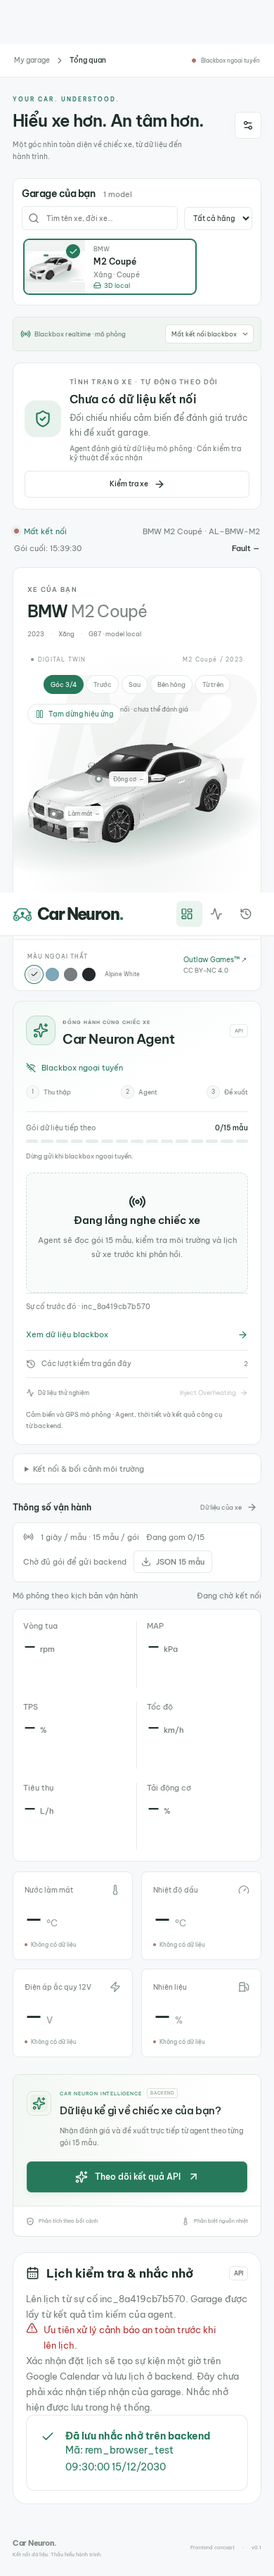
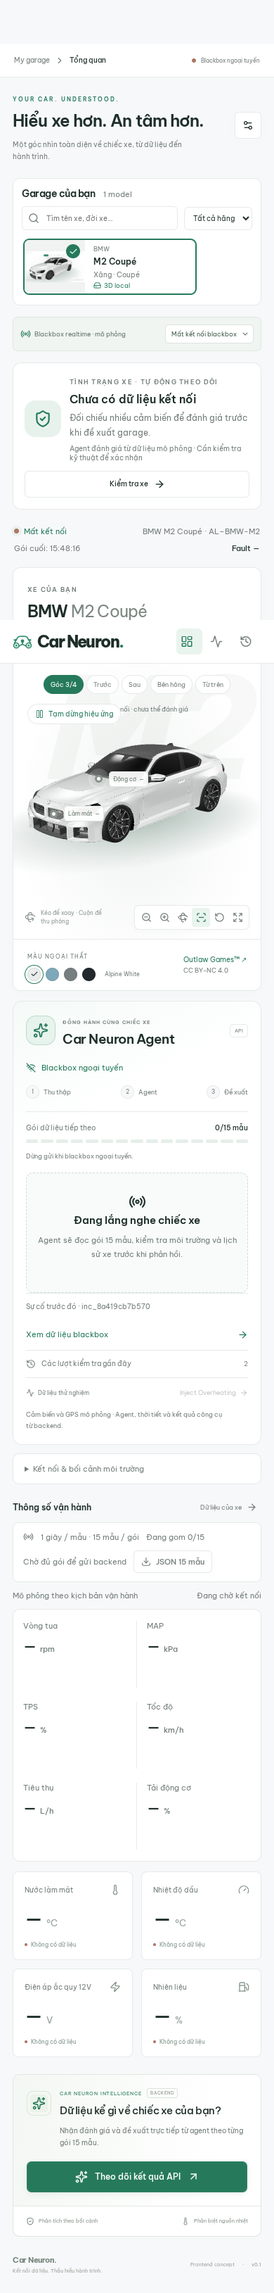
refactor(frontend): focus MVP on vehicle health agent

diff --git a/frontend/src/app/globals.css b/frontend/src/app/globals.css
@@ -3047,7 +3047,6 @@ td:last-child {
 .health-overview.critical { background: linear-gradient(115deg, #fff0ed, var(--surface) 85%); border-color: #e5a099; border-left: 4px solid #ce3c32; }
 .health-overview.critical h2 { color: #a62924; }
 .health-actions { display: flex; flex-direction: column; gap: 8px; }
-.health-actions .booking-shortcut { border-color: var(--accent); color: var(--accent); }
 .metric-card.danger { background: #fff0ed; border-color: #e99b91; box-shadow: inset 0 3px #d33d31; }
 .metric-card.danger .metric-label, .metric-card.danger .metric-value, .metric-card.danger .metric-value small, .metric-card.danger .metric-sub, .metric-card.danger .sparkline { color: #b32f26; }
 .metric-card.danger .tiny-dot { background: #c8372b; }
@@ -3188,23 +3187,3 @@ td:last-child {
 .backend-agent .agent-recommendation p { margin: 0; }
 .backend-agent .agent-response details { font-size: 12px; line-height: 1.6; margin-top: 14px; }
 .backend-open-note { display: block; line-height: 1.6; padding: 10px 0; color: #a13434; }
-.backend-service { background: var(--surface); border: 1px solid var(--border); border-radius: 20px; padding: 26px; margin: 22px 0; scroll-margin-top: 100px; }
-.backend-service h3 { display: flex; align-items: center; gap: 10px; font-size: 17px; margin: 0 0 14px; }
-.backend-service > p { color: var(--muted); font-size: 13px; line-height: 1.7; }
-.backend-service .backend-urgent { color: #b33333; display: flex; gap: 8px; }
-.backend-action-tabs, .backend-actions { display: flex; flex-wrap: wrap; gap: 10px; margin: 18px 0; }
-.backend-action-tabs button { padding: 10px 16px; border-radius: 20px; border: 1px solid var(--border); }
-.backend-action-tabs button[aria-pressed="true"] { background: var(--accent); color: white; }
-.backend-garages { display: grid; grid-template-columns: repeat(auto-fit,minmax(min(100%,240px),1fr)); gap: 10px; margin: 15px 0; }
-.backend-garages label { display: flex; gap: 12px; padding: 16px; border: 1px solid var(--border); border-radius: 12px; cursor: pointer; }
-.backend-garages small { display: block; margin-top: 5px; line-height: 1.6; color: var(--muted); }
-.backend-garages label:has(input:checked) { border-color: var(--accent); background: var(--accent-soft); }
-.backend-date { display: grid; gap: 8px; width: min(100%,320px); font-size: 13px; margin: 18px 0; }
-.backend-date input { padding: 12px; border: 1px solid var(--border); border-radius: 10px; background: var(--surface); color: var(--text); min-width: 0; }
-.backend-review { border: 1px solid var(--border); border-radius: 14px; padding: 20px; margin-top: 18px; }
-.backend-review dl > div { display: flex; justify-content: space-between; gap: 20px; padding: 10px 0; border-bottom: 1px solid var(--border); font-size: 13px; }
-.backend-review dd { margin: 0; overflow-wrap: anywhere; text-align: right; }
-.backend-consent { display: flex; align-items: flex-start; gap: 10px; font-size: 13px; line-height: 1.7; margin: 18px 0; }
-.backend-consent input { margin-top: 4px; accent-color: var(--accent); }
-.backend-receipt { display: flex; gap: 15px; padding: 20px; color: var(--accent); border: 1px solid var(--border); border-radius: 12px; }
-@media(max-width:600px) { .backend-service { padding: 18px; } .backend-actions button { width: 100%; justify-content: center; } }

diff --git a/frontend/src/components/garage.tsx b/frontend/src/components/garage.tsx
@@ -6,9 +6,7 @@ import Image from "next/image";
 import { useVehicleSession } from "@/hooks/use-vehicle-session";
 import {thermalLevel} from "@/lib/thermal-status";
 import BlackboxTransferStatus from "./blackbox-transfer";
-import ServicePlanner from "./service-planner";
 import BackendAgentPanel from "./backend-agent-panel";
-import BackendServicePlanner from "./backend-service-planner";
 import VehicleLibrary from "./vehicle-library";
 import { VehicleMetrics, TelemetryReadings, OperatingMetrics } from "./vehicle-telemetry";
 import { vehicles, powertrainLabels, type Vehicle } from "@/lib/vehicles";
@@ -323,7 +321,6 @@ export default function Garage() {
                 </div>
                 <div className="health-actions">
                   <button className="outline-button" disabled={busy} onClick={runAnalysis}>Kiểm tra xe <ArrowRight size={16} /></button>
-                  {result && result.severity !== "good" && <button className="outline-button booking-shortcut" onClick={() => {const target=document.getElementById("service-planner");target?.scrollIntoView({behavior:window.matchMedia("(prefers-reduced-motion: reduce)").matches ? "instant" : "smooth",block:"start"});target?.focus({preventScroll:true});}}>Đặt lịch kiểm tra <ArrowRight size={16} /></button>}
                 </div>
               </section>
               <div className="live-vehicle-strip" aria-label="Trạng thái luồng dữ liệu">
@@ -550,7 +547,6 @@ export default function Garage() {
                   </div>
                 )}
               </section>
-              {backend ? <BackendServicePlanner incident={backend.incident} /> : <ServicePlanner analysis={busy ? null : result} vehicleId={vehicle.id} urgent={!!incident && incident.status !== "RESOLVED"} />}
             </>
           )}
           {tab === "telemetry" && (

diff --git a/frontend/src/lib/backend/contract.ts b/frontend/src/lib/backend/contract.ts
@@ -6,8 +6,6 @@ export type ToolTrace={tool:string;result:{options?:GarageOption[];error?:unknow
 export type Incident={id:string;vehicle_id:string;severity:Severity;status:string;diagnosis:string;assessment:Assessment;reasons:string[];recommendations:string[];created_at:string;tool_trace:ToolTrace[]};
 export type AgentReply={status:'normal'|'incident_created';vehicle_id:string;batch_id:string;accepted_records:number;assessment:Assessment;hard_safety_guardrail:{triggered:boolean;minimum_severity:Severity;reasons:string[]};tool_trace:ToolTrace[];incident?:Incident;memory:{id:string;status:string;expires_at:string}|null;sanitization:{removed_fields:string[];removed_values:number}};
 export type BatchReply={batchId:string;vehicleId:string;accepted:number;completedAt:string;latest:AgentReply;incident:Incident|null};
-export type PendingAction={id:string;incident_id:string;action_type:'book_appointment'|'remind_later';payload:{garage_id?:string;slot?:string;scheduled_for?:string};status:string};
-export type PreparedAction={requires_confirmation:boolean;pending_action?:PendingAction};
 export type BackendState={phase:'collecting'|'sending'|'ready'|'error'|'paused';api:'checking'|'online'|'offline';error:string;reply:BatchReply|null;incident:Incident|null;history:BatchReply[];skipped:number};
 export const initialBackendState=():BackendState=>({phase:'collecting',api:'checking',error:'',reply:null,incident:null,history:[],skipped:0});
 const finite=(v:unknown,low:number,high:number):v is number=>typeof v==='number'&&Number.isFinite(v)&&v>=low&&v<=high;

diff --git a/frontend/src/app/api/vehicle/[...path]/route.ts b/frontend/src/app/api/vehicle/[...path]/route.ts
@@ -3,14 +3,13 @@ export const runtime='nodejs';
 type Context={params:Promise<{path:string[]}>};
 async function handle(request:Request,context:Context){
   const path=(await context.params).path.join('/');
-  const allowed=request.method==='GET'?/^(health|incidents\/inc_[\w-]+(?:\/memory)?)$/.test(path):/^incidents\/inc_[\w-]+\/(action|confirm)$/.test(path);
+  const allowed=request.method==='GET'&&/^(health|incidents\/inc_[\w-]+(?:\/memory)?)$/.test(path);
   if(!allowed)return Response.json({error:'Endpoint không được hỗ trợ.'},{status:404});
   if(!sameOrigin(request))return Response.json({error:'Origin không hợp lệ.'},{status:403});
   try{
-    const body=request.method==='POST'?await request.json():undefined;
-    const response=await upstream(path==='health'?'/health':`/api/${path}`,body);
+    const response=await upstream(path==='health'?'/health':`/api/${path}`);
     if(!response.ok)return Response.json({error:safeApiError(response.status)},{status:response.status});
     return Response.json(publicPayload(await response.json()));
-  }catch{return Response.json({error:'Không kết nối được backend hoặc yêu cầu đã hết thời gian. Chưa xác định kết quả hành động; không tự gửi lại.'},{status:502});}
+  }catch{return Response.json({error:'Không kết nối được backend hoặc yêu cầu đã hết thời gian.'},{status:502});}
 }
-export const GET=handle;export const POST=handle;
+export const GET=handle;

diff --git a/frontend/AGENTS.md b/frontend/AGENTS.md
@@ -47,9 +47,9 @@ See [vehicle session adapter](docs/vehicle-session-adapter.md). Dashboard compon
 
 The user now authorizes using filtered XLSX ranges as references for the selected vehicle’s synthetic stream, with an explicit uncalibrated label. See [range simulation](docs/telemetry-range-simulation.md). Do not restore dataset browsing. Numeric source units for MAP/TPS/Speed are unknown: keep `raw` labels in the Excel-range mode. Temperature and load remain authored mocks; the Safety Agent intervention uses its own scenario packets. Do not infer Fault severity or overheating from the workbook.
 
-### Thermal presentation and appointment confirmation
+### Thermal presentation
 
-See [thermal alerts and booking](docs/thermal-alerts-and-booking.md). Highlight affected temperature cards and 3D sensor markers in red for the overheating demo, amber for moderate warmth, and neutral when offline; never infer heat from Fault labels or raw Excel ranges. The user explicitly requests garage planning during overheating: keep it available below Safety Agent, with urgent intervention still prioritized. Booking uses three steps and an unchecked consent checkbox plus final confirmation. Freeze the reviewed assessment; editing must clear consent. This remains browser-local demo scheduling, not real garage booking.
+See [thermal alerts and booking](docs/thermal-alerts-and-booking.md) for the earlier design context. Highlight affected temperature cards and 3D sensor markers in red for the overheating demo, amber for moderate warmth, and neutral when offline; never infer heat from Fault labels or raw Excel ranges. Appointment and reminder UI is no longer part of the current MVP.
 
 ### Blackbox-only backend handoff
 
@@ -61,4 +61,4 @@ The user now requests simulated agent submission and a canned normal reply every
 
 ### Backend integration — current user scope
 
-The user explicitly authorizes connecting the real API and wants a single-user local MVP. Backend has been refreshed from main `396e3da`; see [backend MVP integration](docs/backend-mvp-integration.md). This supersedes older no-network/ML integration notes. The default adapter sends 15 sensor records once to `/api/telemetry/batch` through Next.js, and renders the agent assessment on every successful response. The new backend accepts the frontend raw units, strips Fault labels, reads external weather and uses short-term memory; it no longer has an ML stage. Service keys stay exclusively in Python. Booking creates a Google Calendar event only after user review and confirmation; reminder saves a database record. Keep the backend team implementation unchanged and do not reapply the superseded local backend patches saved in Git stash. Avoid production infrastructure; block automatic confirmation retries when outcomes are unknown.
+The user explicitly authorizes connecting the real API and wants a single-user local MVP. Backend has been refreshed from main `396e3da`; see [backend MVP integration](docs/backend-mvp-integration.md). This supersedes older no-network/ML integration notes. The default adapter sends 15 sensor records once to `/api/telemetry/batch` through Next.js, and renders the agent assessment on every successful response. The new backend accepts the frontend raw units, strips Fault labels, reads external weather and uses short-term memory; it no longer has an ML stage. Service keys stay exclusively in Python. The user removed booking and reminders from the frontend MVP, so do not render those controls or expose backend action/confirm routes through Next.js. Keep the backend team implementation unchanged and do not reapply the superseded local backend patches saved in Git stash. Avoid production infrastructure.

diff --git a/frontend/docs/backend-mvp-integration.md b/frontend/docs/backend-mvp-integration.md
@@ -32,25 +32,12 @@ Next.js defaults to `http://127.0.0.1:8000`; optional server-only `BACKEND_URL` 
 
 The gateway is only a same-origin local adapter (no CORS changes or browser API keys). It validates the batch and caches a small number of identical submissions in memory. No accounts, deployment stack, background queues or production infrastructure were added.
 
-## Confirmed actions
+## MVP scope
 
-The frontend uses the new backend's existing API unchanged:
-
-- `POST /api/incidents/{id}/action` prepares `book_appointment` or `remind_later`.
-- The frontend renders the returned pending payload and requires a checkbox plus a separate final confirmation click.
-- `POST /api/incidents/{id}/confirm` executes the pending ID.
-- Booking now creates a one-hour Google Calendar event and then stores the appointment. The result includes `calendar_event`; the UI can open its returned Google Calendar link. This is not confirmation of availability by the garage.
-- Reminder currently stores a database record; it does not imply scheduled notification delivery.
-- Garage choices come only from the agent's returned `search_nearby_garages` trace. The old standalone `find_garage` action is no longer supported and has been removed from the connected UI.
-
-The current backend has no pending-action status endpoint. The earlier temporary frontend-integration additions to Python were set aside before merging main and were not reapplied. On an uncertain confirmation outcome the frontend blocks automatic retry, including after reload, and asks the user to check Calendar/backend rather than risking duplicate writes. Unconfirmed review state stays in memory; editing clears consent. This is deliberately limited to the single-user demo.
-
-## Google Calendar configuration
-
-The backend uses its OAuth credential loader: configure `GOOGLE_CALENDAR_CREDENTIALS_FILE` or provide the expected `client_secret_*.json`, then authorize the account. A saved `backend/token.json` is used for refreshes. The standalone `GOOGLE_CALENDAR_ACCESS_TOKEN` variable is not consumed by this backend implementation. Keep all these files out of Git.
+Appointment booking and reminders are intentionally omitted from the frontend MVP. The backend action endpoints remain owned by the backend team, but the Next.js gateway does not expose them and the dashboard does not call them. Google OAuth is not required for the current telemetry and assessment flow.
 
 ## Verification
 
 - Frontend tests cover preservation of raw units, sensor whitelisting, invalid records, one native batch request, duplicate handling, visible failures and mismatched reply identities.
 - Run backend tests from `backend/` with `python -m pytest tests -q`.
-- `node scripts/verify-backend-integration.mjs` uses the real local batch/agent API and checks desktop/mobile, offline behavior and hydration. Booking POSTs are intercepted in that browser test; no real Calendar event is created.
+- `node scripts/verify-backend-integration.mjs` uses the real local batch/agent API and checks normal and overheating assessments, desktop/mobile layout, offline behavior and hydration.

diff --git a/frontend/README.md b/frontend/README.md
@@ -2,6 +2,6 @@
 
 Car Neuron is a vehicle health dashboard featuring an interactive local 3D car, simulated blackbox telemetry, and an AI agent for explaining vehicle alerts and suggesting next steps.
 
-Built with Next.js, React, TypeScript, and Three.js, the frontend sends 15 sensor readings to a Python backend every 15 seconds. Agent assessments appear on the dashboard, with user confirmation required before creating a Google Calendar appointment or saving a reminder.
+Built with Next.js, React, TypeScript, and Three.js, the frontend sends 15 sensor readings to a Python backend every 15 seconds and displays the returned vehicle assessment.
 
-Sensor data is simulated. Agent analysis and database actions use the connected backend. See [local setup and API integration](docs/backend-mvp-integration.md).
+Sensor data is simulated. Agent analysis uses the connected backend. See [local setup and API integration](docs/backend-mvp-integration.md).
